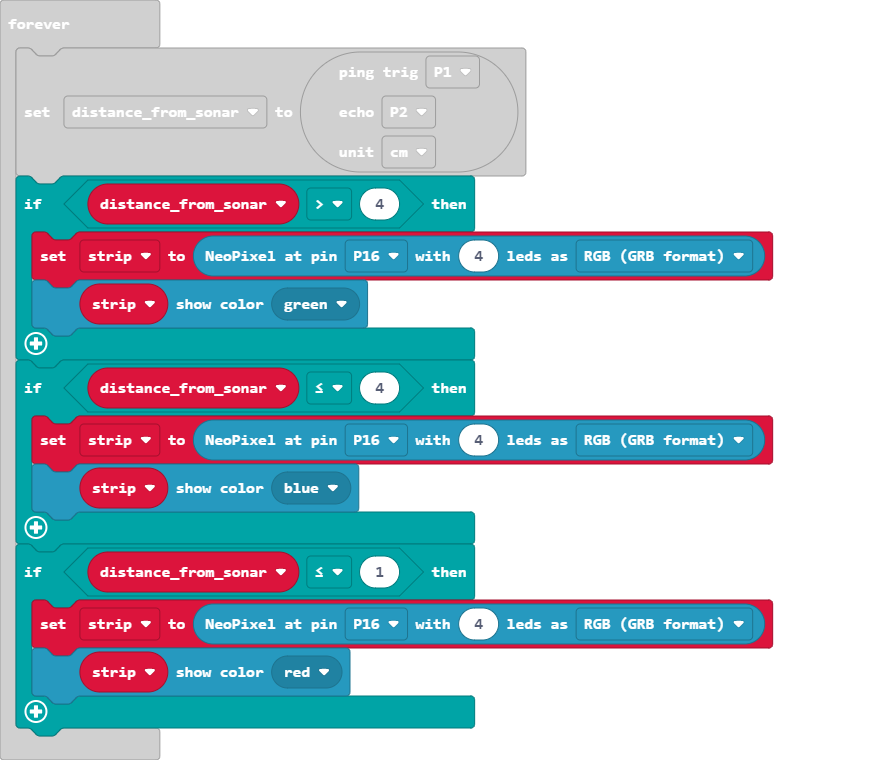
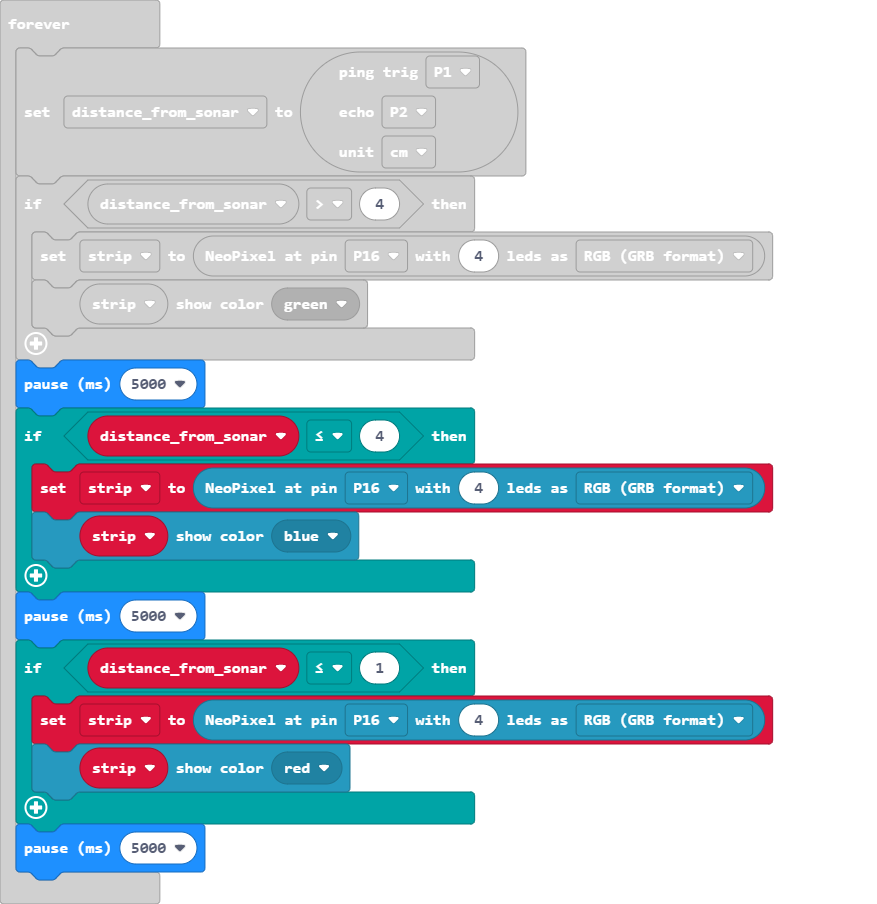
Update main.blocks, main.ts

diff --git a/main.ts b/main.ts
@@ -16,12 +16,15 @@ basic.forever(function () {
         strip2 = neopixel.create(DigitalPin.P16, 4, NeoPixelMode.RGB)
         strip2.showColor(neopixel.colors(NeoPixelColors.Green))
     }
+    basic.pause(5000)
     if (distance_from_sonar <= 4) {
         strip2 = neopixel.create(DigitalPin.P16, 4, NeoPixelMode.RGB)
         strip2.showColor(neopixel.colors(NeoPixelColors.Blue))
     }
+    basic.pause(5000)
     if (distance_from_sonar <= 1) {
         strip2 = neopixel.create(DigitalPin.P16, 4, NeoPixelMode.RGB)
         strip2.showColor(neopixel.colors(NeoPixelColors.Red))
     }
+    basic.pause(5000)
 })
